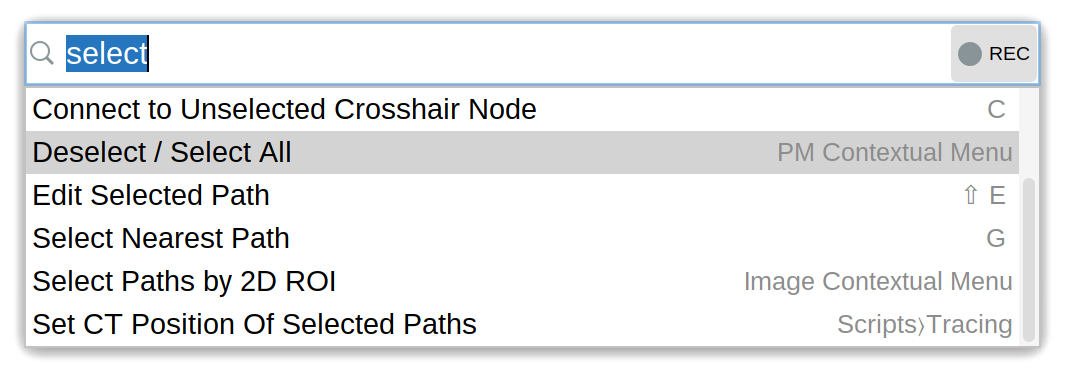
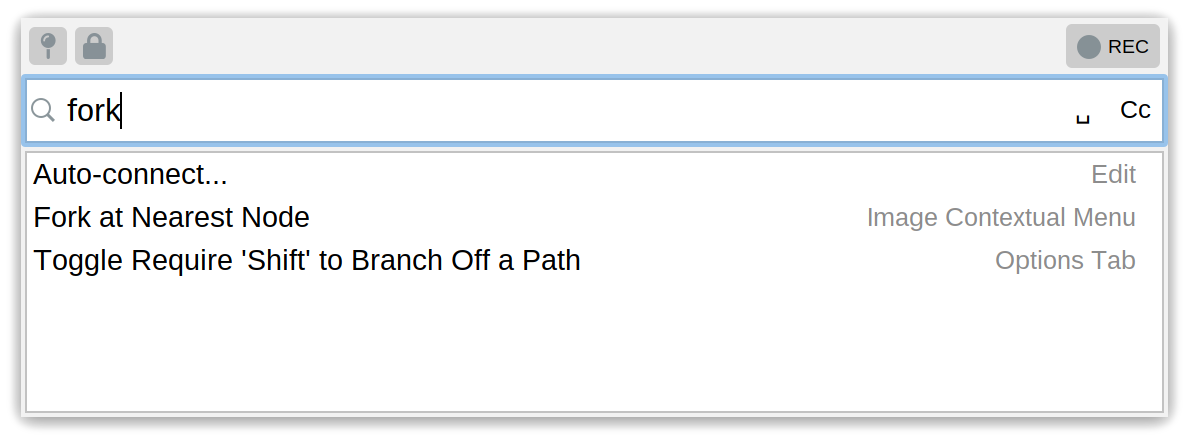
snt: document  root angle analysis
(and misc adjustments)

diff --git a/_pages/plugins/snt/metrics.md b/_pages/plugins/snt/metrics.md
@@ -76,7 +76,7 @@ Defined as the polygon (2D) or the polyhedron (3D) enclosing a reconstruction
 The perimeter of the 2D polygon or the surface area of the 3D polyhedron of the [convex hull](#convex-hull)
 
 ###### Convex hull: Boxivity
-The extent to which the [convex hull](#convex-hull) approaches a rectangle (2D) or a cuboid (3D). Range of values: 0--1 (unitless)
+The extent to which the [convex hull](#convex-hull) approaches a rectangle (if 2D) or a cuboid (if 3D). Range of values: 0--1 (unitless)
 
 ###### Convex hull: Centroid-root distance
 The distance between the root of a neuronal arbor and the centroid of its [convex hull](#convex-hull)
@@ -96,7 +96,7 @@ The depth of the bounding box embedding the structure being measured
 
 <span id="e"></span>
 ##### Extension angle
-The _overall_ outgrowth direction of a branch or path with at least two nodes. It is obtained from the slope of a linear regression performed across allcoordinates on either the XY, XZ, or ZY plane. Extension angles _absolute_ or _relative_ (_rel._):
+The _overall_ outgrowth direction of a branch or path with at least two nodes. It is obtained from the slope of a linear regression performed across allcoordinates on either the XY, XZ, or ZY plane. Extension angles can be _absolute_ or _relative_ (_rel._):
 
 - _Absolute angles_ are measured with respect to a fixed reference and range from [0°-360°[ under a _West-clockwise_ convention (W: 0°; N: 90°; E: 180°; S: 270°)
 
@@ -278,42 +278,54 @@ The length of [primary branches](#primary-branches)
 ##### Remote bif. angles
 The angle between each bifurcation point and its children in the simplified graph, which comprise either branch points or terminal nodes. Note that branch points with more than 2 children are ignored. L-measure metric[^2]
 
+<span id="balancing-factor"></span><span id="bf"></span>
+##### Root angles: Balancing factor
+Dimensionless property related to [Centripetal bias](#root-angles-centripetal-bias) but with range $$[0, 1]$$. It is sufficient to produce realistic neuronal morphologies with generalized minimum spanning tree modeling. Described in:
+
+{% include citation doi='10.1371/journal.pcbi.1000877' %}
+
+##### Root angles: Centripetal bias
+[Root angle analysis](/plugins/snt/analysis#root-angle-analysis) metric (dimensionless, range: $$[0,\infty[$$). It is defined as the concentration ($$\kappa$$) of the von Mises fit of the root angle distribution: $$\kappa=0$$ indicate no bias (root angles are distributed uniformly) while $$\kappa\to\infty$$ indicate that all neurites point directly toward the root of the tree
+
+##### Root angles: Mean direction
+[Root angle analysis](/plugins/snt/analysis#root-angle-analysis) metric. The mean direction of the fitted von Mises distribution (in degrees).
+
 <span id="s"></span>
 ##### Sholl: Decay
-The [Sholl regression coefficient](/plugins/sholl-analysis#sholl-decay)
+The [Sholl regression coefficient](/plugins/snt/sholl#sholl-decay)
 
 ##### Sholl: Degree of Polynomial fit
-The polynomial degree used to fit the Sholl profile. See [Sholl › Fitting functions](/plugins/sholl-analysis#eq1)
+The polynomial degree used to fit the Sholl profile. See [Sholl › Fitting functions](/plugins/snt/sholl#eq1)
 
 ##### Sholl: Kurtosis
-See [Kurtosis](/plugins/sholl-analysis#kurtosis) in [Sholl › Metrics based on sampled data](/plugins/sholl-analysis#metrics-based-on-sampled-data)
+See [Kurtosis](/plugins/snt/sholl#kurtosis) in [Sholl › Metrics based on sampled data](/plugins/snt/sholl#metrics-based-on-sampled-data)
 
 ##### Sholl: Max
-See [Max inters.](/plugins/sholl-analysis#max-inters) in [Sholl › Metrics based on sampled data](/plugins/sholl-analysis#metrics-based-on-sampled-data)
+See [Max inters.](/plugins/snt/sholl#max-inters) in [Sholl › Metrics based on sampled data](/plugins/snt/sholl#metrics-based-on-sampled-data)
 
 ##### Sholl: Max (fitted)
-See [Critical value](/plugins/sholl-analysis#critical-value) in [Sholl › Metrics based on fitted data](/plugins/sholl-analysis#metrics-based-on-fitted-data)
+See [Critical value](/plugins/snt/sholl#critical-value) in [Sholl › Metrics based on fitted data](/plugins/snt/sholl#metrics-based-on-fitted-data)
 
 ##### Sholl: Max (fitted) radius
-See [Critical radius](/plugins/sholl-analysis#critical-radius) in [Sholl › Metrics based on fitted data](/plugins/sholl-analysis#metrics-based-on-fitted-data)
+See [Critical radius](/plugins/snt/sholl#critical-radius) in [Sholl › Metrics based on fitted data](/plugins/snt/sholl#metrics-based-on-fitted-data)
 
 ##### Sholl: Mean
-See [Mean inters.](/plugins/sholl-analysis#mean-inters) in [Sholl › Metrics based on sampled data](/plugins/sholl-analysis#metrics-based-on-sampled-data)
+See [Mean inters.](/plugins/snt/sholl#mean-inters) in [Sholl › Metrics based on sampled data](/plugins/snt/sholl#metrics-based-on-sampled-data)
 
 ##### Sholl: No. maxima
-The number of times _Max inters._ occurs in a Sholl profile. See [Max inters.](/plugins/sholl-analysis#max-inters) in [Sholl › Metrics based on sampled data](/plugins/sholl-analysis#metrics-based-on-sampled-data)
+The number of times _Max inters._ occurs in a Sholl profile. See [Max inters.](/plugins/snt/sholl#max-inters) in [Sholl › Metrics based on sampled data](/plugins/snt/sholl#metrics-based-on-sampled-data)
 
 ##### Sholl: No. secondary maxima
-The number of times a secondary peak occurs in a Sholl profile. See [Max inters.](/plugins/sholl-analysis#max-inters) in [Sholl › Metrics based on sampled data](/plugins/sholl-analysis#metrics-based-on-sampled-data)
+The number of times a secondary peak occurs in a Sholl profile. See [Max inters.](/plugins/snt/sholl#max-inters) in [Sholl › Metrics based on sampled data](/plugins/snt/sholl#metrics-based-on-sampled-data)
 
 ##### Sholl: Ramification index
-See [Schoenen Ramification index](/plugins/sholl-analysis#schoenen-sampled) in [Sholl › Metrics based on sampled data](/plugins/sholl-analysis#metrics-based-on-sampled-data)
+See [Schoenen Ramification index](/plugins/snt/sholl#schoenen-sampled) in [Sholl › Metrics based on sampled data](/plugins/snt/sholl#metrics-based-on-sampled-data)
 
 ##### Sholl: Skewness
-See [Skewness](/plugins/sholl-analysis#skewness) in [Sholl › Metrics based on sampled data](/plugins/sholl-analysis#metrics-based-on-sampled-data)
+See [Skewness](/plugins/snt/sholl#skewness) in [Sholl › Metrics based on sampled data](/plugins/snt/sholl#metrics-based-on-sampled-data)
 
 ##### Sholl: Sum
-See [Sum inters.](/plugins/sholl-analysis#sum) in [Sholl › Metrics based on sampled data](/plugins/sholl-analysis#metrics-based-on-sampled-data)
+See [Sum inters.](/plugins/snt/sholl#sum) in [Sholl › Metrics based on sampled data](/plugins/snt/sholl#metrics-based-on-sampled-data)
 
 ##### Surface area
 Treating each internode segment as a conical frustum, the sum of the surface areas[^1] of all frusta
@@ -353,11 +365,11 @@ Cartesian coordinates in the three-dimensional space
 
 ### Notes
 
-- This list does not include all of the specialized metrics provided by dedicated modules, such as [Strahler](/plugins/snt/analysis#strahler-analysis), [Sholl](/plugins/snt/analysis#sholl-analysis), [Persistence diagrams/landscapes](/plugins/snt/analysis#persistence-homology), or [Graph-based](/plugins/snt/analysis#graph-based-analysis) analysis
+- This list does not include all of the specialized metrics provided by dedicated modules, such as [Strahler](/plugins/snt/analysis#strahler-analysis), [Sholl](/plugins/snt/sholl#metrics), [Persistence diagrams/landscapes](/plugins/snt/analysis#persistence-homology), or [Graph-based](/plugins/snt/analysis#graph-based-analysis) analysis
 
 - Some combinations of metrics/statistics may not be meaningful: e.g., when measuring a single cell, pairing [cable length](#cable-length) to _SD_ will not be useful, since only one cable length value can be computed. In such cases, the Measurements table appends '[Single metric]' to such data
 
-- Each of the 90+ metrics is represented by five statistical properties: minimum, maximum, mean, standard deviation and sum, resulting in a total of at least $$90\times 5$$ features. Note that there is an intrinsic redundancy between these features: E.g., for a given cell, retrieving [Branch length](#branch-length)'s _N_ is effectively the same as retrieving [No. of branches](#no-of-branches)
+- Each of the 95+ metrics is represented by five statistical properties: minimum, maximum, mean, standard deviation and sum, resulting in a total of at least $$95\times 5$$ features. Note that there is an intrinsic redundancy between these features: E.g., for a given cell, retrieving [Branch length](#branch-length)'s _N_ is effectively the same as retrieving [No. of branches](#no-of-branches)
 
 -  *NaN* values for a reported metric typically reflect undefined operations (e.g., division by zero), or the fact that the reconstruction being parsed is not a valid mathematical tree
 

diff --git a/_pages/plugins/snt/analysis.md b/_pages/plugins/snt/analysis.md
@@ -37,6 +37,25 @@ With histograms, normal distribution curves and quartile marks can be overlaid o
 </p>
 "%}
 
+
+# Comparing Reconstructions
+
+<img align="right" width="300px" src="/media/plugins/snt/snt-compare-groups-prompt.png" title=" " />
+SNT can compare up to six groups of cells. The entry point for this type of comparison is twofold:
+- **{% include bc path='Utilities|Compare Reconstructions/Cell Groups...'%}** in the main SNT dialog. This includes a convenience option to compare single reconstruction files.
+- **{% include bc path='Neuronal arbors|Load & Compare Groups...'%}** in Reconstruction Viewer, allowing groups to be tagged, and imported into a common scene while being compared.
+
+The dialog  prompt for this feature allows selection of up to six directories containing reconstruction files (SWC, TRACES, JSON, NDF). The metric to compare against is chosen from the *Metric* drop-down menu. Optionally, it is possible to  restrict the analysis to specific neurite compartments. After making your selections, press *OK* to run the analysis. The result typically includes:
+
+- A simple statistical report, including descriptive statistics and a two-sample t-test (when comparing two groups) or one-way ANOVA (when comparing three or more groups)
+- Comparison plots for the chosen metric: Grouped histogram and boxplot
+- _Montages_ of groups. These are multi-panel vignettes of up to 10 group exemplars. These can all be exported as PDF, PNG, or SVG
+
+{% include img align="center" src="/media/plugins/snt/snt-compare-reconstructions-overview.png" caption="Comparing _No. of branches_ between two cell groups: Overview of outputs."%}
+
+{% include notice icon="info" content="SNT performs statistical tests without verifying if samples fulfill basic test-criteria (e.g., normality, variance homogeneity, sample size, etc.)" %}
+
+
 # Convex Hull Analysis
 _Convex hull_ commands (in SNT  main dialog, [Rec. viewer](/plugins/snt/reconstruction-viewer) and [Rec. plotter](/plugins/snt/manual#plotter)) compute the 2D or 3D convex hull of a reconstruction (i.e., the smallest convex polygon/polyhedron that contains the nodes of its paths). Convex hull measurements are defined in [Metrics](/plugins/snt/metrics#convex-hull-boundary-size).
 
@@ -209,22 +228,23 @@ In addition, SNT also implements descriptors based on persistence landscapes, as
 
 Currently, _basic_ persistence homology descriptors can be computed using UI commands {% include bc path='Analysis|Persistence Homology...'%} (main interface), or {% include bc path='Analyze & Measure|Persistence Homology...'%} in [Rec. viewer](/plugins/snt/reconstruction-viewer). Complete extraction of descriptors can be obtained with [scripting](/plugins/snt/scripting).  See e.g.,  the *Persistence Landscape* [notebook](https://github.com/morphonets/SNT/blob/main/notebooks/).
 
-# Comparing Reconstructions
 
-<img align="right" width="300px" src="/media/plugins/snt/snt-compare-groups-prompt.png" title=" " />
-SNT can compare up to six groups of cells. The entry point for this type of comparison is twofold:
-- **{% include bc path='Utilities|Compare Reconstructions/Cell Groups...'%}** in the main SNT dialog. This includes a convenience option to compare single reconstruction files.
-- **{% include bc path='Neuronal arbors|Load & Compare Groups...'%}** in Reconstruction Viewer, allowing groups to be tagged, and imported into a common scene while being compared.
+# Root Angle Analysis
+Root angle analysis measures the angular distribution of how far neurites deviate from a direct path to the soma (or rootof the neuronal arbor), a functional property that is captured by [Sholl profiles](#sholl-analysis). It quantifies properties such as [balancing factor](./metrics#root-angles-balancing-factor), [centripetal bias](./metrics#root-angles-centripetal-bias), and [mean direction](./metrics#root-angles-mean-direction). It is described in:
 
-The dialog  prompt for this feature allows selection of up to six directories containing reconstruction files (SWC, TRACES, JSON, NDF). The metric to compare against is chosen from the *Metric* drop-down menu. Optionally, it is possible to  restrict the analysis to specific neurite compartments. After making your selections, press *OK* to run the analysis. The result typically includes:
+{% include citation doi='10.1016/j.celrep.2019.04.097' %}
 
-- A simple statistical report, including descriptive statistics and a two-sample t-test (when comparing two groups) or one-way ANOVA (when comparing three or more groups)
-- Comparison plots for the chosen metric: Grouped histogram and boxplot
-- _Montages_ of groups. These are multi-panel vignettes of up to 10 group exemplars. These can all be exported as PDF, PNG, or SVG
+A root angle is defined as the angle between a neurite segment (defined centripetally from the termination point to the soma) and the direct path to the soma or root (see [Bird and Cuntz 2019](https://pubmed.ncbi.nlm.nih.gov/31167149/)). The analysis proceeds as follows:
 
-{% include img align="center" src="/media/plugins/snt/snt-compare-reconstructions-overview.png" caption="Comparing _No. of branches_ between two cell groups: Overview of outputs."%}
+- Root angles are computed centripetally for every node in the arbor in centripetal sequence (from tips to root)
 
-{% include notice icon="info" content="SNT performs statistical tests without verifying if samples fulfill basic test-criteria (e.g., normality, variance homogeneity, sample size, etc.)" %}
+- The distribution of root angles is fitted to a [von Mises distribution](https://en.wikipedia.org/wiki/Von_Mises_distribution), a specialized probability distribution that models angles/directions. von Mises can be considered a 'wrapped normal', or a circular analogue of the normal distribution, as it addresses the issue of "wrapping" that occurs when dealing with angles revolving around a circle where 0° and 360° (2π) are the same. 
+
+- [Centripetal bias](./metrics#root-angles-centripetal-bias), [Balancing factor](./metrics#root-angles-balancing-factor), and [Mean direction](./metrics#root-angles-mean-direction) are then computed from the von Mises fit
+
+The analysis can be performed from the [Analysis menu](/plugins/snt/manual#root-angle-analysis) in the main dialog, Reconstruction Viewer's [Analyze & Measure](/plugins/snt/reconstruction-viewer#analyze--measure) menu, or [template scripts](/plugins/snt/scripting#bundled-templates). The screenshot below depicts the output of the *Analysis › Root Angle Analysis* template script:
+
+{% include img align="fit" src="/media/plugins/snt/snt-root-angle-analysis.png" %}
 
 # Other Specialized Analyses
 See [SNT Scripting](/plugins/snt/scripting), as well as script templates demonstrating a range of analysis possibilities.

diff --git a/_pages/plugins/snt/manual.md b/_pages/plugins/snt/manual.md
@@ -89,7 +89,7 @@ This option assumes you are tracing on the same spatial coordinates of an annota
 
 #### Load Demo Dataset...
 
-Loads a demo dataset (a tracing image, a reconstruction, or both). Use this to familiarize yourself with the software, explore [Walk‑throughs](/plugins/snt/walkthroughs), and to create [Minimal reproducible example](https://en.wikipedia.org/wiki/Minimal_reproducible_example) when reporting problems. The bottom part of the dialog describes each dataset including source, citation, and DOI (when available). Note that while some of the data is bundled with SNT, the majority of the datasets is downloaded from remote servers (internet connection required).
+Loads a demo dataset (a tracing image, a reconstruction, or both). Use this to familiarize yourself with the software, explore [Walk‑throughs](/plugins/snt/walkthroughs), and to create [Minimal reproducible examples](https://en.wikipedia.org/wiki/Minimal_reproducible_example) when reporting problems. The bottom part of the dialog describes each dataset including source, citation, and DOI (when available). Note that while some of the data is bundled with SNT, the majority of the datasets is downloaded from remote servers (internet connection required).
 
 #### Save Tracings ›
 
@@ -117,17 +117,19 @@ Resets all preferences and restarts SNT using default options. It is recommended
 ### Analysis ›
 
 #### Atlas-based ›
-See [Atlas-based Analysis](/plugins/snt/analysis#atlas-based-analysis).
+See [Analysis › Atlas-based Analysis](/plugins/snt/analysis#atlas-based-analysis).
 
 #### Path-based ›
-See [Path-based Analysis](/plugins/snt/analysis#path-based-analysis).
+See [Analysis › Path-based Analysis](/plugins/snt/analysis#path-based-analysis).
 
 #### Convex Hull
-See [Convex hull Analysis](/plugins/snt/analysis#convex-hull-analysis).
+See [Analysis › Convex hull Analysis](/plugins/snt/analysis#convex-hull-analysis).
 
 #### Persistence Homology
-See [Persistence Homology Analysis](/plugins/snt/analysis#persistence-homology).
+See [Analysis › Persistence Homology Analysis](/plugins/snt/analysis#persistence-homology).
 
+#### Root Angle Analysis
+See [Analysis › Root Angle Analysis](/plugins/snt/analysis#root-angle-analysis).
 
 #### Sholl Analysis.../Sholl Analysis (by Focal Point)...
 
@@ -154,8 +156,10 @@ The Command Palette is the fastest way to access actions and discover their resp
 
 1. Press {% include key keys='ctlcmd|Shift|P' %} in either SNT or [Reconstruction Viewer](/plugins/snt/reconstruction-viewer)
 2. Start typing to filter actions, scripts and available commands
-3. Press {% include key keys='up' %} or {% include key keys='down' %} to select a command (or use the  {% include key keys='mouse wheel' %})
+3. Press {% include key keys='up' %} or {% include key keys='down' %} (or use the  {% include key keys='mouse wheel' %}) to select a command 
 4. Press {% include key keys='Enter' %} to run it. If the record button is toggled, executed commands are recorded by the [Script Recorder](/plugins/snt/scripting#script-recorder).
+
+By default, commands and actions are filtered using approximate string matching. Exact matching can be enabled by toggling the _Match Case/Whitespace_ buttons. Press the &nbsp;<i style="color:gray;" class="fas fa-map-pin"></i>&nbsp; button to display the Command Palette above all windows. Press the &nbsp;<i style="color:gray;" class="fas fa-lock"></i>&nbsp; button to keep the Palette open after running a command.
 
 
 #### Compare Reconstructions/Cell Groups...

diff --git a/_pages/plugins/snt/sholl.md b/_pages/plugins/snt/sholl.md
@@ -552,28 +552,15 @@ More complex scripts will take advantage of [SNT's API](/plugins/snt/scripting).
 <dl>
 <dd markdown="1">
 
-The authoritative reference for *Sholl Analysis* is:
+The authoritative references for *Sholl Analysis* are twofold:
 
 - {% include citation id='plugins/sholl-analysis' %}
-
-The authoritative reference for *SNT* is:
 
 - {% include citation id='plugins/snt' %}
 
 </dd>
 </dl>
-<li markdown="1">
 
-<span id="faq:plugin"></span>**What is the difference between *Sholl Analysis* and an homonymous plugin released by the Ghosh laboratory in 2005**?
-
-</li>
-<dl>
-<dd markdown="1">
-
-The [original Sholl Analysis plugin](http://web.archive.org/web/20140216075253/http://labs.biology.ucsd.edu/ghosh/software/) by Tom Maddock (version 1.0) was released for ImageJ 1.35 and is now deprecated, unmaintained software that behaves erratically in newer versions of ImageJ. The current implementation of *Sholl Analysis* inherits Tom's initial 2D algorithm, but has numerous [added features](#release-notes) to enhance its utility. Note that throughout 2012 the plugin was temporarily called *Advanced Sholl Analysis*. You can follow the entire history of the plugin using its [release notes](#release-notes)
-
-</dd>
-</dl>
 <li markdown="1">
 
 <span id="faq:threshold"></span>**Why do I need to threshold the cell?**
@@ -588,7 +575,7 @@ Counting intersections is really a binary procedure: a shell either intercepts a
 </dl>
 <li markdown="1">
 
-<span id="faq:threshold2"></span>**In version 1.0, it was not mandatory to adjust threshold values prior to analysis. Why is it now?**
+<span id="faq:threshold2"></span>**In older versions it was not mandatory to adjust threshold values prior to analysis. Why is it now?**
 
 </li>
 <dl>
@@ -809,9 +796,10 @@ Report it in the [ImageJ Forum](http://forum.imagej.net).
 </dl>
 </ol>
 
-## Release Notes
+<span id="release-notes"></span>
+# Version History
 
-Release notes are available on the {% include github org='morphonets' repo='SNT' label='SNT repository' %}. Releases notes up to version 3.7.3 are available on the {% include github org='tferr' repo='ASA' branch='master' path='Notes.md#release-notes-for-sholl-analysis' label='initial project repository' %}.
+Release notes are available on the {% include github org='morphonets' repo='SNT' label='SNT repository' %}. Releases notes up to version 3.7.3 are available on an {% include github org='tferr' repo='ASA' branch='master' path='Notes.md#release-notes-for-sholl-analysis' label='older repository' %}. In turn, the latter inherited (with permission) the 2D algorithm of an even earlier [ImageJ 1.35 plugin](http://web.archive.org/web/20140216075253/http://labs.biology.ucsd.edu/ghosh/software/) by Tom Maddock. Note that throughout 2012 the project was temporarily called *Advanced Sholl Analysis*.
 
 
 # Publication

diff --git a/_pages/plugins/snt/key-shortcuts.md b/_pages/plugins/snt/key-shortcuts.md
@@ -8,22 +8,17 @@ forum-tag: snt
 update-site: Neuroanatomy
 ---
 
+
 {% capture text%}
 Most SNT features are triggered by keyboard shortcuts. Shortcuts are typically single keystrokes and most do not require other modifier keys to be pressed. Most are highlighted in the user interface. E.g., to toggle the *Trace/Fill on Secondary <u>L</u>ayer* checkbox, one only needs to press its highlighted letter, i.e., {% include key key='L' %}.
-<br><br>
+
+{% include img src="/media/plugins/snt/command-palette.png" align="right" width="450px" %}
 _Typically_, when {% include key keys='ctlcmd' %} is pressed, hotkeys are not intercepted by SNT. E.g., During a tracing session pressing {% include key key='N' %} triggers <u>N</u>o* in the interactive prompt while {% include key keys='ctlcmd|N' %} will trigger IJ's built-in command {% include bc path='File|New|image...'%}.
+<br><br>
+If you are not familiar with SNT commands the [Command Palette](manual#command-palette) ({% include key keys='ctlcmd|Shift|P' %}) is the fastest way to access actions and discover their respective shortcuts!
 {% endcapture %}
 {% include notice icon="info" content=text %}
 
-{% capture cmdpalette%}
-{% include img src="/media/plugins/snt/command-palette.png" align="right" width="450px" %}
-The Command Palette is the fastest way to access actions and discover their respective shortcuts:
-1. Press {% include key keys='ctlcmd|Shift|P' %} in either SNT or Reconstruction Viewer
-2. Start typing to filter actions, scripts and available commands
-3. Press {% include key keys='up' %} or {% include key keys='down' %} to select a command (or use the  {% include key keys='mouse wheel' %})
-4. Press {% include key keys='Enter' %} to run it
-{% endcapture %}
-{% include notice  icon="info" content=cmdpalette %}
 
 ### Interactive Prompt
 

diff --git a/_pages/plugins/snt/comp-tools.md b/_pages/plugins/snt/comp-tools.md
@@ -1,0 +1,28 @@
+---
+title: SNT › Complementary Tools
+nav-links: true
+nav-title: Comp. Tools
+artifact: org.morphonets:SNT
+icon: /media/icons/snt.png
+forum-tag: snt
+update-site: Neuroanatomy
+---
+
+### ImageJ Ecosystem
+
+| Tool | Description | Comments |
+|------|-------------|----------|
+| [Spot Spine](/plugins/spot-spine) | Detection and count dendritic spines, segmentation of spine heads, and quantitative morphological measurements of spines | Under active development |
+| [BigTrace](/plugins/bigtrace) | Semi-automated tracing in 3D using BigVolumeViewer | Under active development |
+| [NeuronJ](/plugins/neuronj) | Semi-automated tracing in 2D only | No longer maintained. SNT reads NDF files |
+
+
+### Other
+
+| Tool | Description |
+|------|-------------|
+| [BICCN Tools](https://biccn.org/tools) | List of tools supporting NIH's Brain Research through Advancing Innovative Neurotechnologies (BRAIN) Initiative - Cell Census Network (BICCN) |
+| [Blue Brain's Morphology Suite](https://github.com/BlueBrain/morphology-suite) | Blue brain's collection of tools (mostly Python) to build, analyze and visualize morphologies. Currently supported by the [Open Brain Institute](https://www.openbraininstitute.org/) |
+| [HBP Morphology Viewer](https://neuroinformatics.nl/HBP/morphology-viewer/)| WebGL-based viewer with Allen Cell Types and Neuromorpho.org integration |
+| [L-measure](http://cng.gmu.edu:8080/Lm/) | Classic toolkit for quantitative analyzes of neuronal reconstructions of neurons (cf. [metrics](metrics)) |
+| [natverse](https://natverse.org/) | Complete neuroanatomical data analysis in R |

diff --git a/_pages/plugins/snt/faq.md b/_pages/plugins/snt/faq.md
@@ -16,11 +16,11 @@ See [Installation details](/plugins/snt/index#installation).
 
 ### How do I cite SNT?
 
-**The proper citation for SNT is**:
+**Note that neither the main [Fiji article](/software/fiji#publication), nor the first [Simple Neurite Tracer](#what-is-the-difference-between-snt-and-simple-neurite-tracer) publication are appropriate citations for SNT. The proper citation for SNT is**:
 
 - {% include citation id='plugins/snt' %}
 
-**Note that neither the main [Fiji article](/software/fiji#publication), nor the first [Simple Neurite Tracer](#what-is-the-difference-between-snt-and-simple-neurite-tracer) publication are appropriate citations for SNT**. To reference additional modules that enhance SNT:
+In addition, you should also cite any additional modules that you may use:
 
 - **[Sholl Analysis](/plugins/snt/sholl)**
   {% include citation id="plugins/sholl-analysis" %}

diff --git a/_pages/plugins/snt/reconstruction-viewer.md b/_pages/plugins/snt/reconstruction-viewer.md
@@ -263,7 +263,7 @@ Generates a Dendrogram plot of single cells. See [Graph-based Analysis](/plugins
 See [Analysis › Persistence Homology](/plugins/snt/analysis#graph-based-analysis).
 
 #### Sholl Analysis...
-Runs [Sholl Analysis](/plugins/sholl-analysis#analysis-of-traced-cells) on single cells.
+Runs [Sholl Analysis](/plugins/snt/sholl#analysis-of-traced-cells) on single cells.
 
 #### Strahler Analysis...
 Conducts [Strahler Analysis](/plugins/snt/analysis#strahler-analysis) on single cells.
